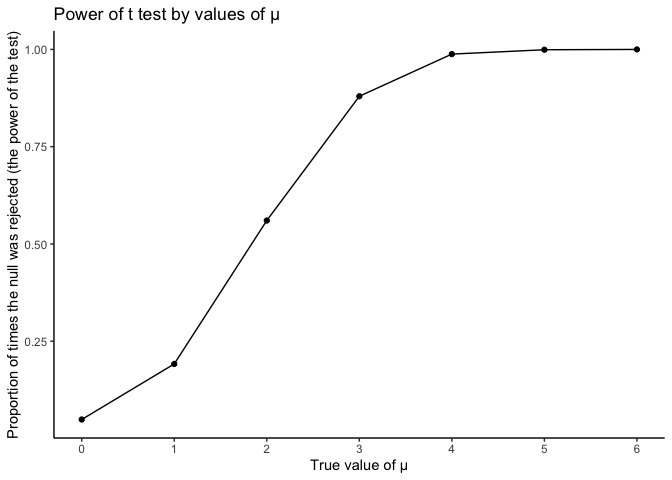
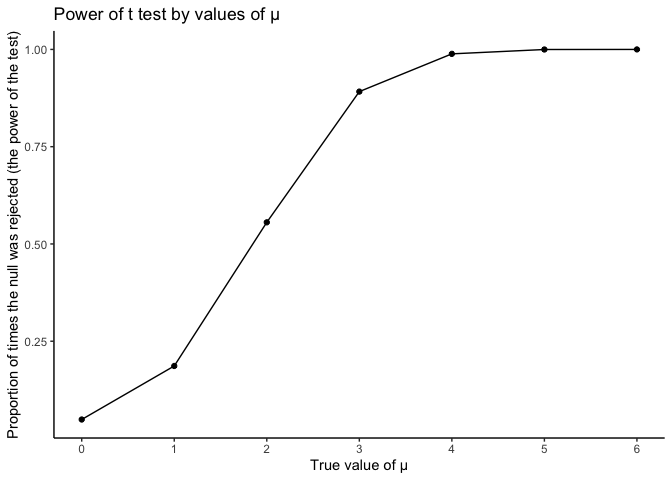
problem 3: made second plot, summarized findings

diff --git a/p8105_hw5_ay2543.md b/p8105_hw5_ay2543.md
@@ -187,18 +187,18 @@ sim_df
 ```
 
     ## # A tibble: 5,000 × 2
-    ##    estimate  p.value
-    ##       <dbl>    <dbl>
-    ##  1    0.745 0.435   
-    ##  2   -1.62  0.0877  
-    ##  3   -0.133 0.887   
-    ##  4    0.988 0.225   
-    ##  5   -3.18  0.000780
-    ##  6    0.294 0.718   
-    ##  7   -2.11  0.0151  
-    ##  8    0.344 0.714   
-    ##  9   -0.572 0.381   
-    ## 10    0.227 0.746   
+    ##    estimate p.value
+    ##       <dbl>   <dbl>
+    ##  1    0.347   0.734
+    ##  2   -0.502   0.534
+    ##  3   -0.435   0.594
+    ##  4    0.639   0.463
+    ##  5    1.06    0.237
+    ##  6   -0.144   0.867
+    ##  7    0.180   0.857
+    ##  8    0.386   0.658
+    ##  9    1.00    0.303
+    ## 10    0.439   0.679
     ## # … with 4,990 more rows
 
 Second function to get dataframe for a range of values
@@ -252,16 +252,76 @@ can conclude that larger effect size is positively associated with the
 power of the t test.
 
 ``` r
-expand_grid(
-  true_mean = 0:6,
-  iter = 1:5000
-) %>% sim_t_test()
+estimate_df = sim_range_df %>% 
+  group_by(mu) %>% 
+  summarize(mean_muhat = mean(estimate))
+
+estimate_plot = estimate_df %>% 
+  ggplot(aes(x = mu, y = mean_muhat)) +
+  geom_point() +
+  geom_line() +
+  scale_x_continuous(breaks = seq(0, 6, 1)) + 
+  scale_y_continuous(breaks = seq(0, 6, 1)) + 
+  theme_classic() +
+  labs(
+    x = "True value of μ",
+    y = "Average estimate of μ̂",
+    title = "Average estimate of μ̂ by true value of μ"
+  )
+
+estimate_plot
 ```
 
-    ## # A tibble: 1 × 2
-    ##   estimate p.value
-    ##      <dbl>   <dbl>
-    ## 1     4.25  0.0260
+![](p8105_hw5_ay2543_files/figure-gfm/unnamed-chunk-10-1.png)<!-- -->
+
+``` r
+estimate_df_reject = sim_range_df %>% 
+  filter(null_reject == 1) %>% 
+  group_by(mu) %>% 
+  summarize(mean_muhat = mean(estimate))
+
+estimate_power_plot = estimate_df_reject %>% 
+  ggplot(aes(x = mu, y = mean_muhat)) +
+  geom_point(color = "red") +
+  geom_line(color = "red") +
+  scale_x_continuous(breaks = seq(0, 6, 1)) + 
+  scale_y_continuous(breaks = seq(0, 6, 1)) + 
+  theme_classic() +
+  labs(
+    x = "True value of μ",
+    y = "Average estimate of μ̂ ",
+    title = "Average estimate of μ̂ by true value of μ for samples that rejected null hypothesis"
+  )
+
+estimate_power_plot
+```
+
+![](p8105_hw5_ay2543_files/figure-gfm/unnamed-chunk-11-1.png)<!-- -->
+
+-   The sample average of μ̂ across tests for which the null is rejected
+    is not always approximately equal to the true value of μ from μ=1 to
+    μ=4.
+
+-   When μ = 0 and when μ≥4, the sample average of μ̂ is approximately
+    equal to the true value of μ
+
+-   When μ is small, the power of the t-test is low.
+
+-   μ̂ for which the null is rejected is less accurate at lower levels
+    because it is taking the average of less test estimates
+
+-   As μ increases, more estimates are being rejected, so μ̂ is closer to
+    μ.
+
+This is because as the true value of μ (the effect size) increases, the
+power of the test also increases. Since the power of the test is the
+proportion of times the null is rejected, a lower power for smaller μ’s
+would mean that the test rejects the null less for smaller μ’s. This
+means that (looking at the average μ^ across tests where the null is
+rejected) we are taking the average across less samples when μ is small,
+meaning a greater error in the estimates. This in turn leads to the
+observed difference between the sample average of μ̂ across tests for
+which the null is rejected vs. the true value of μ.
 
 Repeat the above for μ={1,2,3,4,5,6}, and complete the following:
 
